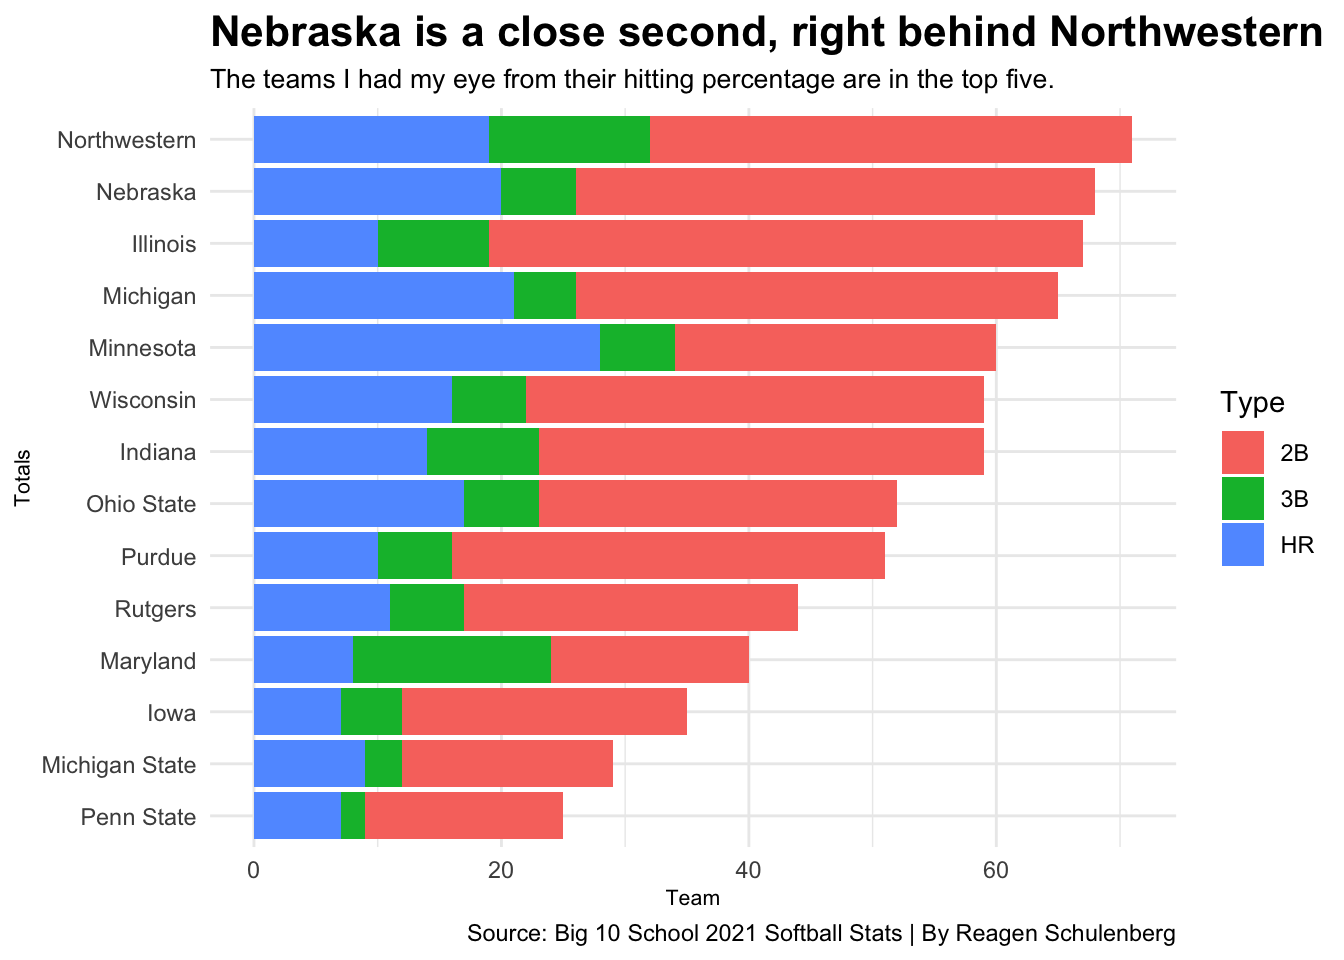
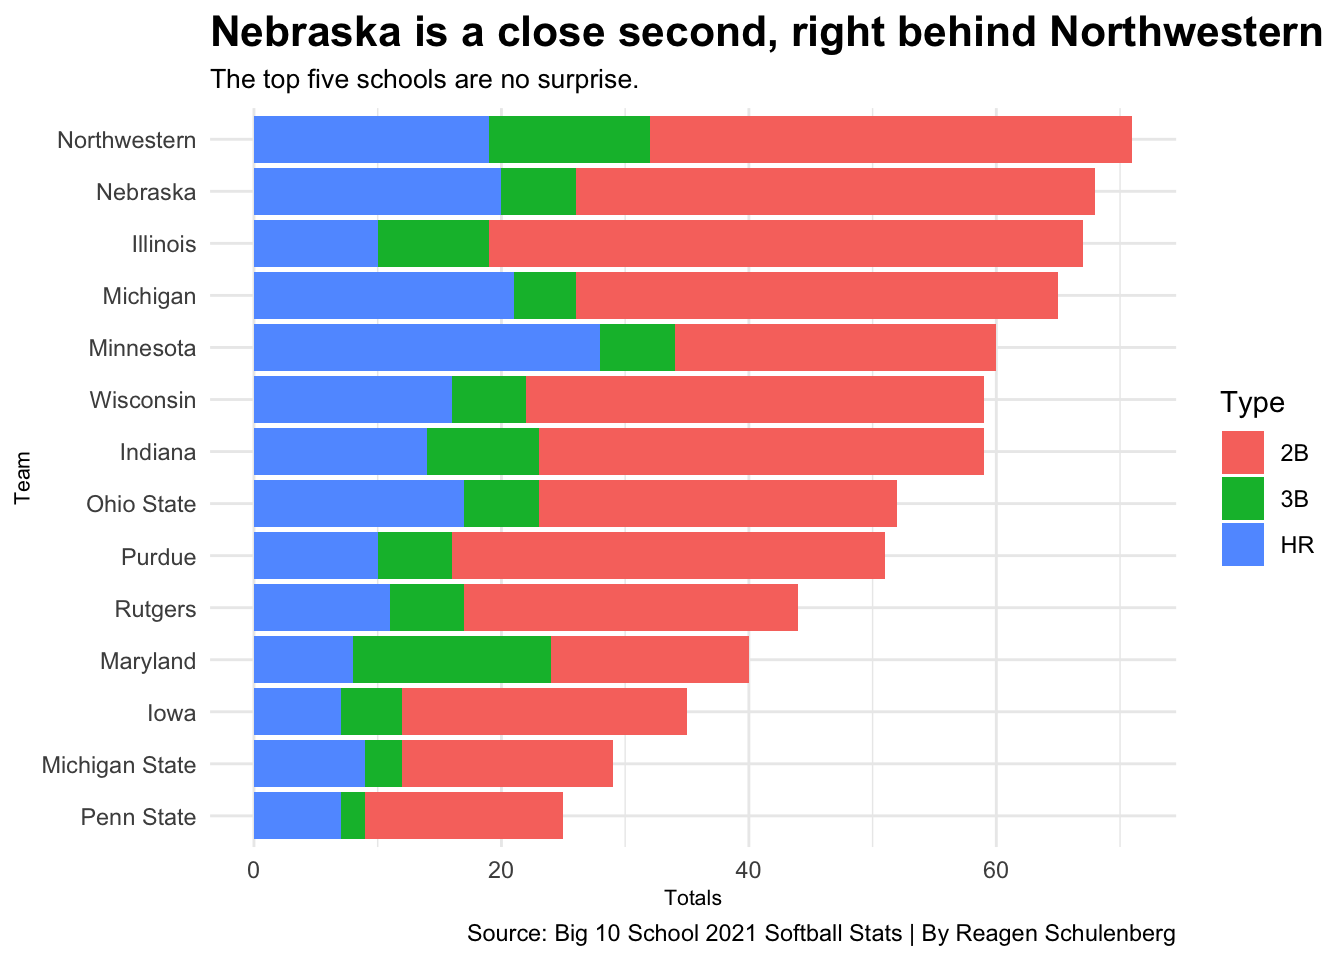
commit

Changed region(s): [[0.2188, 0.0625, 0.7812, 0.0938], [0.5, 0.9062, 0.5312, 0.9688], [0.0, 0.4688, 0.0312, 0.5312]]

diff --git a/2021/04/23/which-big-10-softball-team-is-the-best-in-the-2021-season/index.html b/2021/04/23/which-big-10-softball-team-is-the-best-in-the-2021-season/index.html
@@ -76,8 +76,9 @@
 <script src="/2021/04/23/which-big-10-softball-team-is-the-best-in-the-2021-season/index_files/header-attrs/header-attrs.js"></script>
 
 
-<p>As someone who has grown up around the sport of softball, I’ve watched hundreds of games. My sister played softball in college and little did I know that years later I would be working for the University of Nebraska-Lincoln’s softball team. I joined the digital media team at the athletic department in October of 2019. Going into my second year, I noticed that I was invited to a softball meeting right before school started. I didn’t necessarily know that I was assigned a new sport, but I was all in for it!</p>
-<p>Working with the softball team has been an awesome experience. This season has been especially unique since they are only playing other Big 10 teams. I have watched every Nebraska softball game thus far in this season, and I wanted to see how they compare to the other Big 10 teams that they have played and won’t get the chance to play. But not only see where Nebraska stood, but see who the best team is possibly in the Big 10. To analyze this, I wanted to look at three different areas: hitting, pitching, and fielding.</p>
+<p>As someone who has grown up around the sport of softball, I’ve watched hundreds of games. My sister played softball in college and little did I know that years later I would be working for the University of Nebraska-Lincoln’s softball team. I joined the digital media team at the athletic department in October of 2019. Going into my second year, I noticed that I was invited to a softball meeting right before school started. I didn’t necessarily know what to expect working for softball, but I was all in for it!</p>
+<p>Working with the softball team has been an awesome experience. This season has been especially unique since they are only playing other Big 10 teams. I have worked every Nebraska softball game this far this season and wanted to see how they compare to the other Big 10 teams. But not only see where Nebraska stood, but see who the best Big 10 team is this 2021 season.</p>
+<p>To analyze this, I wanted to look at three different areas: hitting, pitching, and fielding.</p>
 <pre class="r"><code>library(tidyverse)
 library(gt)
 library(ggrepel)</code></pre>
@@ -102,8 +103,10 @@ labs(
     plot.subtitle = element_text(size=10))</code></pre>
 <p><img src="/2021/04/23/which-big-10-softball-team-is-the-best-in-the-2021-season/index_files/figure-html/unnamed-chunk-3-1.png" width="672" />
 The blue line is the national batting average this season.</p>
-<p>Here are the top observations I take from this. First, Penn State can’t hit for crap. But Michigan, Illinois, and Northwestern have been about or above average almost all season. Us at good old Nebraska U, we have been up and down all season. There are a lot of teams who have stayed pretty steady over the course of the 2021 conference play and some who are a little bit more up and down.</p>
-<p>Now, I have my eye on who to look out for. Let’s look at some total season stats for hitting. I added up the total doubles, triples, and home runs for each team.</p>
+<p>Here are the top observations I take from this.</p>
+<p>First, Penn State can’t hit for crap. But Michigan, Illinois, and Northwestern have been about or above average almost all season. Us at good old Nebraska U, we have been up and down all season. There are a lot of teams who have stayed pretty steady over the course of the 2021 conference play and some who are a little bit more up and down.</p>
+<p>Now, I have my eye on who to look out for.</p>
+<p>Let’s look at some total season stats for hitting. I added up the total doubles, triples, and home runs for each team.</p>
 <pre class="r"><code>stackeddata &lt;- softball %&gt;% 
   pivot_longer(cols = c(&quot;2B&quot;, &quot;3B&quot;, &quot;HR&quot;), names_to=&quot;Type&quot;, values_to=&quot;Total&quot;) 
 
@@ -112,19 +115,19 @@ ggplot(stackeddata, aes(x=reorder(Team, Total), weight=Total, fill=Type)) +
   coord_flip() +
   labs(
     title= &quot;Nebraska is a close second, right behind Northwestern&quot;,
-    subtitle= &quot;The teams I had my eye from their hitting percentage are in the top five.&quot;,
-    caption= &quot;Source: Big 10 School 2021 Softball Stats | By Reagen Schulenberg&quot;, x=&quot;Totals&quot;, y=&quot;Team&quot;) +
+    subtitle= &quot;The top five schools are no surprise.&quot;,
+    caption= &quot;Source: Big 10 School 2021 Softball Stats | By Reagen Schulenberg&quot;, x=&quot;Team&quot;, y=&quot;Totals&quot;) +
   theme_minimal() +
   theme(
     plot.title = element_text(size = 16, face = &quot;bold&quot;),
     axis.title = element_text(size = 8), 
     plot.subtitle = element_text(size=10)) </code></pre>
 <p><img src="/2021/04/23/which-big-10-softball-team-is-the-best-in-the-2021-season/index_files/figure-html/unnamed-chunk-4-1.png" width="672" /></p>
-<p>Although Nebraska had lots of peaks and valleys when it came to their hitting percentage, they come out second when it comes to their totals in hitting this season. I then notice that Northwestern comes out on top, with Illinois, Michigan, and Minnesota following close behind in third through sixth.
-I see Penn State at the bottom again - which isn’t a surprise based on their hitting percentage.
-Minnesota has the most home runs, but you can’t always win games just by hitting bombs.
-So now, for someone who has a pretty average hitting percentage based on the national average, stands at the top of this graph. Based on this, I would say that the more steady your batting average is, the more likely you will to have higher totals in overall hits.</p>
-<p>A pitcher is a vital role in a softball. They control pitching to the other team. Let’s look at how pitching as affected these Big 10 teams this season.</p>
+<p>Although Nebraska had lots of peaks and valleys when it came to their hitting percentage, they come out second when it comes to their totals in hitting this season. I then notice that Northwestern comes out on top, with Illinois, Michigan, and Minnesota following close behind in third through sixth.</p>
+<p>I see Penn State at the bottom again - which isn’t a surprise based on their hitting percentage.</p>
+<p>Minnesota has the most home runs, but you can’t always win games just by hitting bombs.</p>
+<p>Based on this, I would say that the higher your batting average is, the more likely you will to have higher totals in overall hits.</p>
+<p>A pitcher is a vital role in a softball. Let’s look at how pitching as affected these Big 10 teams this season.</p>
 <pre class="r"><code>pstats &lt;- pitching %&gt;%
   group_by(Team) %&gt;%
   summarize(
@@ -149,7 +152,7 @@ geom_text_repel(data=pstats, aes(x=sumSO, y=sumHits, label=Team)) +
     plot.subtitle = element_text(size=10))</code></pre>
 <p><img src="/2021/04/23/which-big-10-softball-team-is-the-best-in-the-2021-season/index_files/figure-html/unnamed-chunk-5-1.png" width="672" /></p>
 <p>When I made this graph and it spit out the output, my eyes went directly to Michigan. They are obviously a huge outlier when it comes to pitching. They pitch a TON of strikeouts, almost 100 more than any other Big 10 Team. But, you notice that they don’t have a ton of hits compared to the rest of the Big 10. Lastly, their dot is small meaning that they only allow one earned run per game.</p>
-<p>I notice that Nebraska falls somehwere in the middle, but closer to the left side of the graph. Two teams that I’ve been keeping an eye on, Northwestern and Illinois, are both in the center of the graph meaning their total hits and total strikeouts are about 50/50. Not to mention that the size of their dot is fairly small, meaning that their pitchers don’t give up very many runs.</p>
+<p>I notice that Nebraska falls somewhere in the middle, but closer to the left side of the graph. Two teams that I’ve been keeping an eye on, Northwestern and Illinois, are both in the center of the graph meaning their total hits and total strikeouts are about 50/50. Not to mention that the size of their dot is fairly small, meaning that their pitchers don’t give up very many runs.</p>
 <p>My eye still remains on Northwestern, Illinois, and Michigan.</p>
 <p>Lastly, let’s look at fielding.</p>
 <p>Errors are huge when it comes to fielding. You can’t expect to have a great team and have a ton of fielding errors. So I wanted to look at the Big 10 teams who have less than 25 errors on the season.</p>
@@ -206,7 +209,7 @@ gt() %&gt;%
   font-family: -apple-system, BlinkMacSystemFont, 'Segoe UI', Roboto, Oxygen, Ubuntu, Cantarell, 'Helvetica Neue', 'Fira Sans', 'Droid Sans', Arial, sans-serif;
 }
 
-#ejnwrhbwha .gt_table {
+#vtxcxpkxkj .gt_table {
   display: table;
   border-collapse: collapse;
   margin-left: auto;
@@ -231,7 +234,7 @@ gt() %&gt;%
   border-left-color: #D3D3D3;
 }
 
-#ejnwrhbwha .gt_heading {
+#vtxcxpkxkj .gt_heading {
   background-color: #FFFFFF;
   text-align: center;
   border-bottom-color: #FFFFFF;
@@ -243,7 +246,7 @@ gt() %&gt;%
   border-right-color: #D3D3D3;
 }
 
-#ejnwrhbwha .gt_title {
+#vtxcxpkxkj .gt_title {
   color: #333333;
   font-size: 125%;
   font-weight: initial;
@@ -253,7 +256,7 @@ gt() %&gt;%
   border-bottom-width: 0;
 }
 
-#ejnwrhbwha .gt_subtitle {
+#vtxcxpkxkj .gt_subtitle {
   color: #333333;
   font-size: 85%;
   font-weight: initial;
@@ -263,13 +266,13 @@ gt() %&gt;%
   border-top-width: 0;
 }
 
-#ejnwrhbwha .gt_bottom_border {
+#vtxcxpkxkj .gt_bottom_border {
   border-bottom-style: none;
   border-bottom-width: 2px;
   border-bottom-color: #D3D3D3;
 }
 
-#ejnwrhbwha .gt_col_headings {
+#vtxcxpkxkj .gt_col_headings {
   border-top-style: none;
   border-top-width: 2px;
   border-top-color: #D3D3D3;
@@ -284,7 +287,7 @@ gt() %&gt;%
   border-right-color: #D3D3D3;
 }
 
-#ejnwrhbwha .gt_col_heading {
+#vtxcxpkxkj .gt_col_heading {
   color: #333333;
   background-color: #FFFFFF;
   font-size: 100%;
@@ -304,7 +307,7 @@ gt() %&gt;%
   overflow-x: hidden;
 }
 
-#ejnwrhbwha .gt_column_spanner_outer {
+#vtxcxpkxkj .gt_column_spanner_outer {
   color: #333333;
   background-color: #FFFFFF;
   font-size: 100%;
@@ -316,15 +319,15 @@ gt() %&gt;%
   padding-right: 4px;
 }
 
-#ejnwrhbwha .gt_column_spanner_outer:first-child {
+#vtxcxpkxkj .gt_column_spanner_outer:first-child {
   padding-left: 0;
 }
 
-#ejnwrhbwha .gt_column_spanner_outer:last-child {
+#vtxcxpkxkj .gt_column_spanner_outer:last-child {
   padding-right: 0;
 }
 
-#ejnwrhbwha .gt_column_spanner {
+#vtxcxpkxkj .gt_column_spanner {
   border-bottom-style: none;
   border-bottom-width: 2px;
   border-bottom-color: #D3D3D3;
@@ -336,7 +339,7 @@ gt() %&gt;%
   width: 100%;
 }
 
-#ejnwrhbwha .gt_group_heading {
+#vtxcxpkxkj .gt_group_heading {
   padding: 8px;
   color: #333333;
   background-color: #FFFFFF;
@@ -358,7 +361,7 @@ gt() %&gt;%
   vertical-align: middle;
 }
 
-#ejnwrhbwha .gt_empty_group_heading {
+#vtxcxpkxkj .gt_empty_group_heading {
   padding: 0.5px;
   color: #333333;
   background-color: #FFFFFF;
@@ -373,15 +376,15 @@ gt() %&gt;%
   vertical-align: middle;
 }
 
-#ejnwrhbwha .gt_from_md > :first-child {
+#vtxcxpkxkj .gt_from_md > :first-child {
   margin-top: 0;
 }
 
-#ejnwrhbwha .gt_from_md > :last-child {
+#vtxcxpkxkj .gt_from_md > :last-child {
   margin-bottom: 0;
 }
 
-#ejnwrhbwha .gt_row {
+#vtxcxpkxkj .gt_row {
   padding-top: 8px;
   padding-bottom: 8px;
   padding-left: 5px;
@@ -400,7 +403,7 @@ gt() %&gt;%
   overflow-x: hidden;
 }
 
-#ejnwrhbwha .gt_stub {
+#vtxcxpkxkj .gt_stub {
   color: #333333;
   background-color: #FFFFFF;
   font-size: 100%;
@@ -412,7 +415,7 @@ gt() %&gt;%
   padding-left: 12px;
 }
 
-#ejnwrhbwha .gt_summary_row {
+#vtxcxpkxkj .gt_summary_row {
   color: #333333;
   background-color: #FFFFFF;
   text-transform: inherit;
@@ -422,7 +425,7 @@ gt() %&gt;%
   padding-right: 5px;
 }
 
-#ejnwrhbwha .gt_first_summary_row {
+#vtxcxpkxkj .gt_first_summary_row {
   padding-top: 8px;
   padding-bottom: 8px;
   padding-left: 5px;
@@ -432,7 +435,7 @@ gt() %&gt;%
   border-top-color: #D3D3D3;
 }
 
-#ejnwrhbwha .gt_grand_summary_row {
+#vtxcxpkxkj .gt_grand_summary_row {
   color: #333333;
   background-color: #FFFFFF;
   text-transform: inherit;
@@ -442,7 +445,7 @@ gt() %&gt;%
   padding-right: 5px;
 }
 
-#ejnwrhbwha .gt_first_grand_summary_row {
+#vtxcxpkxkj .gt_first_grand_summary_row {
   padding-top: 8px;
   padding-bottom: 8px;
   padding-left: 5px;
@@ -452,11 +455,11 @@ gt() %&gt;%
   border-top-color: #D3D3D3;
 }
 
-#ejnwrhbwha .gt_striped {
+#vtxcxpkxkj .gt_striped {
   background-color: rgba(128, 128, 128, 0.05);
 }
 
-#ejnwrhbwha .gt_table_body {
+#vtxcxpkxkj .gt_table_body {
   border-top-style: none;
   border-top-width: 2px;
   border-top-color: #D3D3D3;
@@ -465,7 +468,7 @@ gt() %&gt;%
   border-bottom-color: #D3D3D3;
 }
 
-#ejnwrhbwha .gt_footnotes {
+#vtxcxpkxkj .gt_footnotes {
   color: #333333;
   background-color: #FFFFFF;
   border-bottom-style: none;
@@ -479,13 +482,13 @@ gt() %&gt;%
   border-right-color: #D3D3D3;
 }
 
-#ejnwrhbwha .gt_footnote {
+#vtxcxpkxkj .gt_footnote {
   margin: 0px;
   font-size: 90%;
   padding: 4px;
 }
 
-#ejnwrhbwha .gt_sourcenotes {
+#vtxcxpkxkj .gt_sourcenotes {
   color: #333333;
   background-color: #FFFFFF;
   border-bottom-style: none;
@@ -499,46 +502,46 @@ gt() %&gt;%
   border-right-color: #D3D3D3;
 }
 
-#ejnwrhbwha .gt_sourcenote {
+#vtxcxpkxkj .gt_sourcenote {
   font-size: 90%;
   padding: 4px;
 }
 
-#ejnwrhbwha .gt_left {
+#vtxcxpkxkj .gt_left {
   text-align: left;
 }
 
-#ejnwrhbwha .gt_center {
+#vtxcxpkxkj .gt_center {
   text-align: center;
 }
 
-#ejnwrhbwha .gt_right {
+#vtxcxpkxkj .gt_right {
   text-align: right;
   font-variant-numeric: tabular-nums;
 }
 
-#ejnwrhbwha .gt_font_normal {
+#vtxcxpkxkj .gt_font_normal {
   font-weight: normal;
 }
 
-#ejnwrhbwha .gt_font_bold {
+#vtxcxpkxkj .gt_font_bold {
   font-weight: bold;
 }
 
-#ejnwrhbwha .gt_font_italic {
+#vtxcxpkxkj .gt_font_italic {
   font-style: italic;
 }
 
-#ejnwrhbwha .gt_super {
+#vtxcxpkxkj .gt_super {
   font-size: 65%;
 }
 
-#ejnwrhbwha .gt_footnote_marks {
+#vtxcxpkxkj .gt_footnote_marks {
   font-style: italic;
   font-size: 65%;
 }
 </style>
-<div id="ejnwrhbwha" style="overflow-x:auto;overflow-y:auto;width:auto;height:auto;"><table class="gt_table">
+<div id="vtxcxpkxkj" style="overflow-x:auto;overflow-y:auto;width:auto;height:auto;"><table class="gt_table">
   <thead class="gt_header">
     <tr>
       <th colspan="5" class="gt_heading gt_title gt_font_normal" style="color: black; text-align: left; font-weight: bold;">Northwestern still at the top - Michigan right behind</th>
@@ -611,7 +614,7 @@ gt() %&gt;%
   
 </table></div>
 <p>Nebraska falls in the middle, yet again. My top guesses were that I would see Northwestern, Michigan, and Illinois at the top of this table. However, I see that Illinois isn’t even on this table, meaning that they make too many errors.
-So, that leaves me with Michigan and Northwestern still fighting for the top. Coincidentally, they have the same number of wins. Northwestern’s hitting percentage is only higher by 0.003 and they also have the same number of fielding errors.</p>
+So, that leaves me with Michigan and Northwestern still fighting for the top. Coincidentally, they have the same number of wins. Northwestern’s fielding percentage is only higher by 0.003 and they also have the same number of fielding errors.</p>
 <p>To take an ending look at these top two teams:</p>
 <p>Northwestern had the highest total number of hits overall. Their pitchers throw an average amount of strikeouts along with overall hits. Their average ERA circle was decently small, meaning that on average, they don’t give up many runs. Finally, they’re at the top of the fielding table, with the highest fielding percentage and lowest number of errors.</p>
 <p>Michigan’s batting average per game is around the national average line or above. They ranked fourth out of all the Big 10 teams in the total number of hits. They were a huge outlier when it comes to their pitching. Their dot was the smallest on the graph, and way far right, meaning that they strikeout a lot of batters, but don’t have that many hits. They trail Northwestern barley in their fielding percentage and have the same amount of errors.</p>
